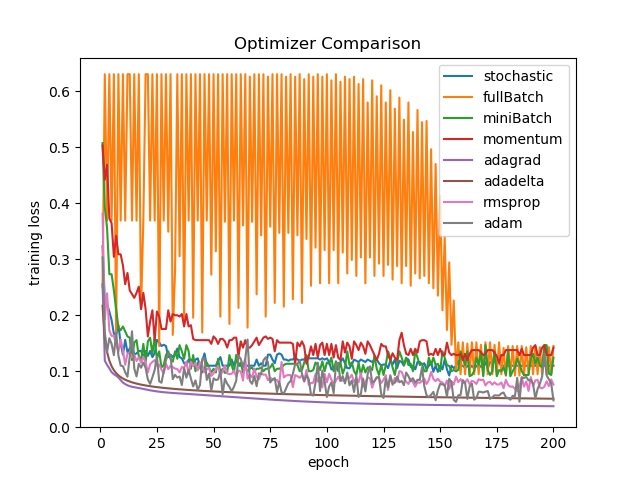
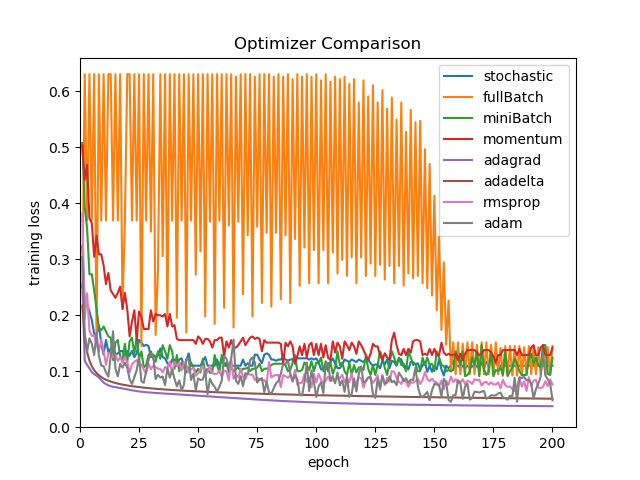
minor

diff --git a/scripts/pipeline.py b/scripts/pipeline.py
@@ -31,9 +31,9 @@ def main():
         num_iter=iters
     )
     fullbatch_model.train(fullTrainDataloader)
-    fullbatch_model.plot(
-        fullTrainDataloader,
-        "/media/zzhuang/00091EA2000FB1D0/iGit/git_projects/MasterOfOptimizers/plots/fullbatch_testcase_boundary.png")
+    # fullbatch_model.plot(
+    #     fullTrainDataloader,
+    #     "/media/zzhuang/00091EA2000FB1D0/iGit/git_projects/MasterOfOptimizers/plots/fullbatch_testcase_boundary.png")
 
     # --------------------------------------------------------------------------------------------------------
     print("stochastic batch gradient descent")
@@ -42,9 +42,9 @@ def main():
         num_iter=iters
     )
     stochastic_model.train(stochasticTrainDataloader)
-    stochastic_model.plot(
-        stochasticTrainDataloader,
-        "/media/zzhuang/00091EA2000FB1D0/iGit/git_projects/MasterOfOptimizers/plots/stochastic_testcase_boundary.png")
+    # stochastic_model.plot(
+    #     stochasticTrainDataloader,
+    #     "/media/zzhuang/00091EA2000FB1D0/iGit/git_projects/MasterOfOptimizers/plots/stochastic_testcase_boundary.png")
 
     # --------------------------------------------------------------------------------------------------------
     print("mini batch gradient descent")
@@ -53,9 +53,9 @@ def main():
         num_iter=iters
     )
     minibatch_model.train(trainDataloader)
-    minibatch_model.plot(
-        trainDataloader,
-        "/media/zzhuang/00091EA2000FB1D0/iGit/git_projects/MasterOfOptimizers/plots/minibatch_testcase_boundary.png")
+    # minibatch_model.plot(
+    #     trainDataloader,
+    #     "/media/zzhuang/00091EA2000FB1D0/iGit/git_projects/MasterOfOptimizers/plots/minibatch_testcase_boundary.png")
 
     # --------------------------------------------------------------------------------------------------------
     print("mini batch gradient descent with momentum")
@@ -64,9 +64,9 @@ def main():
         num_iter=iters
     )
     momentum_model.train(trainDataloader)
-    momentum_model.plot(
-        trainDataloader,
-        "/media/zzhuang/00091EA2000FB1D0/iGit/git_projects/MasterOfOptimizers/plots/momentum_testcase_boundary.png")
+    # momentum_model.plot(
+    #     trainDataloader,
+    #     "/media/zzhuang/00091EA2000FB1D0/iGit/git_projects/MasterOfOptimizers/plots/momentum_testcase_boundary.png")
 
     # --------------------------------------------------------------------------------------------------------
     print("adagrad")
@@ -75,9 +75,9 @@ def main():
         num_iter=iters
     )
     adagrad_model.train(trainDataloader)
-    adagrad_model.plot(
-        trainDataloader,
-        "/media/zzhuang/00091EA2000FB1D0/iGit/git_projects/MasterOfOptimizers/plots/adagrad_testcase_boundary.png")
+    # adagrad_model.plot(
+    #     trainDataloader,
+    #     "/media/zzhuang/00091EA2000FB1D0/iGit/git_projects/MasterOfOptimizers/plots/adagrad_testcase_boundary.png")
 
     # --------------------------------------------------------------------------------------------------------
     print("adadelta")
@@ -86,9 +86,9 @@ def main():
         num_iter=iters
     )
     adadelta_model.train(trainDataloader)
-    adadelta_model.plot(
-        trainDataloader,
-        "/media/zzhuang/00091EA2000FB1D0/iGit/git_projects/MasterOfOptimizers/plots/adadelta_testcase_boundary.png")
+    # adadelta_model.plot(
+    #     trainDataloader,
+    #     "/media/zzhuang/00091EA2000FB1D0/iGit/git_projects/MasterOfOptimizers/plots/adadelta_testcase_boundary.png")
 
     # --------------------------------------------------------------------------------------------------------
     print("rmsprop")
@@ -97,9 +97,9 @@ def main():
         num_iter=iters
     )
     rmsprop_model.train(trainDataloader)
-    rmsprop_model.plot(
-        trainDataloader,
-        "/media/zzhuang/00091EA2000FB1D0/iGit/git_projects/MasterOfOptimizers/plots/rmsprop_testcase_boundary.png")
+    # rmsprop_model.plot(
+    #     trainDataloader,
+    #     "/media/zzhuang/00091EA2000FB1D0/iGit/git_projects/MasterOfOptimizers/plots/rmsprop_testcase_boundary.png")
 
     # --------------------------------------------------------------------------------------------------------
     print("adam")
@@ -108,9 +108,9 @@ def main():
         num_iter=iters
     )
     adam_model.train(trainDataloader)
-    adam_model.plot(
-        trainDataloader,
-        "/media/zzhuang/00091EA2000FB1D0/iGit/git_projects/MasterOfOptimizers/plots/adam_testcase_boundary.png")
+    # adam_model.plot(
+    #     trainDataloader,
+    #     "/media/zzhuang/00091EA2000FB1D0/iGit/git_projects/MasterOfOptimizers/plots/adam_testcase_boundary.png")
 
     # --------------------------------------------------------------------------------------------------------
     xs = [i+1 for i in range(iters)]
@@ -122,6 +122,7 @@ def main():
     plt.plot(xs, adadelta_model.get_loss_history())
     plt.plot(xs, rmsprop_model.get_loss_history())
     plt.plot(xs, adam_model.get_loss_history())
+    plt.xlim(xmin=0)
     plt.ylim(ymin=0)
     plt.title("Optimizer Comparison")
     plt.xlabel("epoch")
